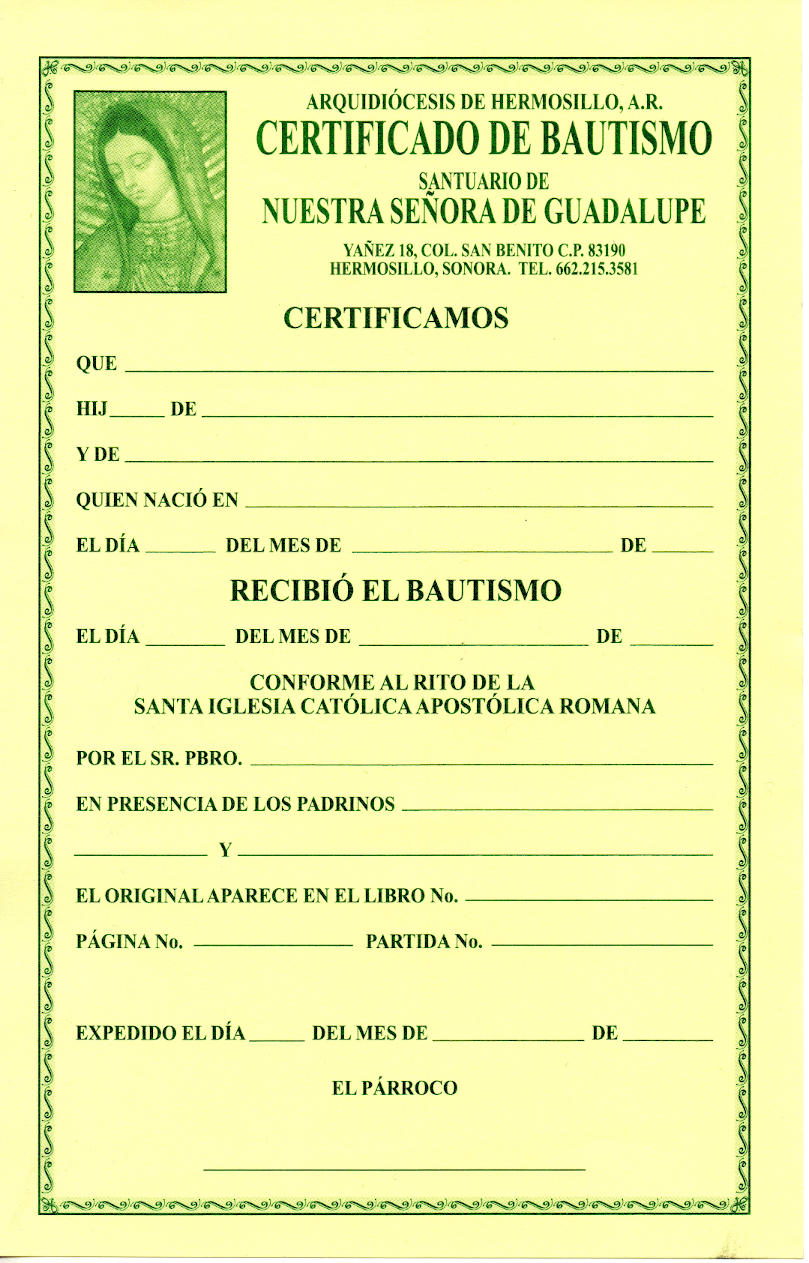
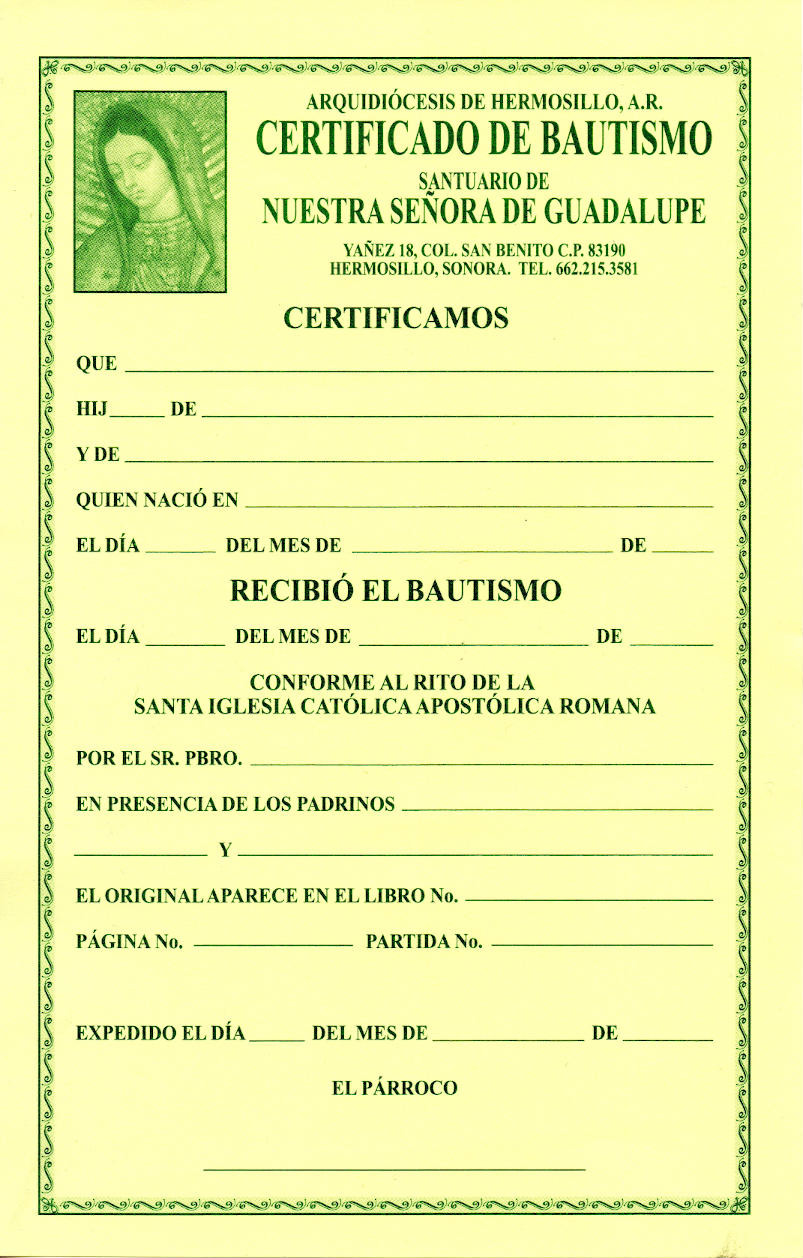
Impresion - Adjusted margin test1

Changed region(s): [[0.0, 0.0, 1.0, 1.0], [0.0934, 0.806, 0.8717, 0.868], [0.1868, 0.434, 0.2491, 0.465]]

diff --git a/WEB/Impresion/index.js b/WEB/Impresion/index.js
@@ -16,13 +16,15 @@ document.addEventListener("DOMContentLoaded", () => {
     width = "";
     height = "";
     orientation = "";
+    margins = "";
     inputs = [new INPUT(0, 0, 1, "", "")];
 
-    constructor(n, w, h, o, i) {
+    constructor(n, w, h, o, m, i) {
       this.name = n;
       this.width = w;
       this.height = h;
       this.orientation = o;
+      this.margins = m;
       this.inputs = i;
     }
   }
@@ -35,8 +37,18 @@ document.addEventListener("DOMContentLoaded", () => {
     value = "";
     textAlign = "";
     fontWeight = "";
+    fontSize = "";
 
-    constructor(ttop, lleft, wwidth, pplaceholder, vvalue, aalign, ffont) {
+    constructor(
+      ttop,
+      lleft,
+      wwidth,
+      pplaceholder,
+      vvalue,
+      aalign,
+      ffont,
+      ssize = "13px"
+    ) {
       this.top = ttop;
       this.left = lleft;
       this.width = wwidth;
@@ -44,109 +56,140 @@ document.addEventListener("DOMContentLoaded", () => {
       this.value = vvalue;
       this.textAlign = aalign;
       this.fontWeight = ffont;
+      this.fontSize = ssize;
     }
   }
 
   const docs = [
-    new DOC("bautizo.jpg", "137.0mm", "214.0mm", "portrait", [
-      new INPUT("59.25mm", "22mm", "99mm", "Nombre del bebé...", "", "", "700"),
-      new INPUT("67mm", "18.5mm", "9.5mm", "O/A", "", "", ""),
-      new INPUT("67mm", "35mm", "86mm", "", "", "", ""),
-      new INPUT("74.75mm", "22mm", "99mm", "", "", "", ""),
-      new INPUT("82.25mm", "42.25mm", "79mm", "Ciudad...", "", "", ""),
-      new INPUT("90mm", "24.5mm", "12.5mm", "", "", "center", ""),
-      new INPUT("90mm", "59.5mm", "44.5mm", "", "", "", ""),
-      new INPUT("90mm", "110.25mm", "11mm", "", "", "center", ""),
-      new INPUT("105.75mm", "24.5mm", "14mm", "", "", "center", ""),
-      new INPUT("105.75mm", "60.75mm", "39mm", "", "", "", ""),
-      new INPUT("105.75mm", "106.5mm", "14.5mm", "", "", "center", ""),
-      new INPUT("126mm", "43.25mm", "78mm", "", "", "", ""),
-      new INPUT("133.5mm", "68.75mm", "52.5mm", "", "", "", ""),
-      new INPUT("141.25mm", "12.25mm", "23mm", "", "", "", ""),
-      new INPUT("141.25mm", "41.25mm", "80mm", "", "", "", ""),
-      new INPUT("149mm", "78.5mm", "43mm", "", "", "", ""),
-      new INPUT("156.5mm", "32.5mm", "27.5mm", "", "", "", ""),
-      new INPUT("156.5mm", "83mm", "38mm", "", "", "", ""),
-      new INPUT(
-        "164mm",
-        "12.5mm",
-        "109mm",
-        "Notas marginales...",
-        "",
-        "center",
-        "700"
-      ),
-      new INPUT("172.75mm", "42mm", "10mm", "", "", "center", ""),
-      new INPUT("172.75mm", "74mm", "25mm", "", "", "", ""),
-      new INPUT("172.75mm", "105mm", "16mm", "", "", "center", ""),
-      new INPUT(
-        "198.75mm",
-        "29mm",
-        "78mm",
-        "",
-        "RECTOR PBRO. Luis Armando González Torres",
-        "",
-        ""
-      ),
-    ]),
-    new DOC("comunion.jpg", "216.0mm", "141.0mm", "landscape", [
-      new INPUT("38.75mm", "53.5mm", "117mm", "", "", "", "700"),
-      new INPUT("52.75mm", "50mm", "22mm", "", "", "center", ""),
-      new INPUT("52.75mm", "78.5mm", "66mm", "", "", "", ""),
-      new INPUT("52.75mm", "149.5mm", "21mm", "", "", "center", ""),
-      new INPUT("59.75mm", "79.5mm", "118mm", "", "", "", ""),
-      new INPUT("66.75mm", "44.5mm", "154mm", "", "", "", ""),
-      new INPUT("73.75mm", "41.5mm", "157mm", "", "", "", ""),
-      new INPUT("80.75mm", "41.5mm", "157mm", "", "", "", ""),
-      new INPUT("87.75mm", "52mm", "146mm", "", "", "", ""),
-      new INPUT("94.75mm", "42.5mm", "156mm", "", "", "", ""),
-      new INPUT("101.75mm", "26mm", "172mm", "", "", "", ""),
-      new INPUT("108.75mm", "33.5mm", "28mm", "", "", "center", ""),
-      new INPUT("115.75mm", "33.5mm", "28mm", "", "", "center", ""),
-      new INPUT("122.75mm", "33.5mm", "28mm", "", "", "center", ""),
-      new INPUT(
-        "119.75mm",
-        "122.5mm",
-        "78mm",
-        "",
-        "RECTOR PBRO. LUIS ARMANDO GONZÁLEZ TORRES",
-        "",
-        ""
-      ),
-    ]),
-    new DOC("matrimonio.jpg", "229.5mm", "170.5mm", "landscape", [
-      new INPUT(
-        "49mm",
-        "35mm",
-        "162mm",
-        "Nombre de los novios...",
-        "",
-        "",
-        "700"
-      ),
-      new INPUT("76.25mm", "35mm", "10mm", "", "", "center", ""),
-      new INPUT("76.25mm", "53mm", "44mm", "", "", "", ""),
-      new INPUT("76.25mm", "112.5mm", "7mm", "", "", "center", ""),
-      new INPUT("76.25mm", "156.5mm", "53mm", "", "", "", ""),
-      new INPUT("96mm", "29.5mm", "83.5mm", "", "", "", ""),
-      new INPUT("96mm", "121.5mm", "83.5mm", "", "", "", ""),
-      new INPUT("108mm", "29.5mm", "83.5mm", "", "", "", ""),
-      new INPUT("108mm", "121.5mm", "83.5mm", "", "", "", ""),
-      new INPUT("115mm", "49mm", "48mm", "", "", "", ""),
-      new INPUT("119.75mm", "52mm", "45mm", "", "", "", ""),
-      new INPUT("124.75mm", "52mm", "45mm", "", "", "", ""),
-      new INPUT("129.75mm", "76mm", "21mm", "", "", "", ""),
-      new INPUT("134.75mm", "30mm", "67mm", "", "", "", ""),
-      new INPUT(
-        "123.25mm",
-        "121mm",
-        "83mm",
-        "",
-        "PBRO. LUIS ARMANDO GONZÁLEZ TORRES",
-        "",
-        ""
-      ),
-    ]),
+    new DOC(
+      "bautizo.jpg",
+      "135.97mm",
+      "213.02mm",
+      "portrait",
+      "3mm 0mm 0mm 0mm",
+      [
+        new INPUT(
+          "59.25mm",
+          "22mm",
+          "99mm",
+          "Nombre del bebé...",
+          "",
+          "",
+          "700"
+        ),
+        new INPUT("67mm", "18.5mm", "9.5mm", "O/A", "", "", ""),
+        new INPUT("67mm", "35mm", "86mm", "", "", "", ""),
+        new INPUT("74.75mm", "22mm", "99mm", "", "", "", ""),
+        new INPUT("82.25mm", "42.25mm", "79mm", "Ciudad...", "", "", ""),
+        new INPUT("90mm", "24.5mm", "12.5mm", "", "", "center", ""),
+        new INPUT("90mm", "59.5mm", "44.5mm", "", "", "", ""),
+        new INPUT("90mm", "110.25mm", "11mm", "", "", "center", ""),
+        new INPUT("105.75mm", "24.5mm", "14mm", "", "", "center", ""),
+        new INPUT("105.75mm", "60.75mm", "39mm", "", "", "", ""),
+        new INPUT("105.75mm", "106.5mm", "14.5mm", "", "", "center", ""),
+        new INPUT("126mm", "43.25mm", "78mm", "", "", "", ""),
+        new INPUT("133.5mm", "68.75mm", "52.5mm", "", "", "", ""),
+        new INPUT("141.25mm", "12.25mm", "23mm", "", "", "", ""),
+        new INPUT("141.25mm", "41.25mm", "80mm", "", "", "", ""),
+        new INPUT("149mm", "78.5mm", "43mm", "", "", "", ""),
+        new INPUT("156.5mm", "32.5mm", "27.5mm", "", "", "", ""),
+        new INPUT("156.5mm", "83mm", "38mm", "", "", "", ""),
+        new INPUT(
+          "164mm",
+          "12.5mm",
+          "109mm",
+          "Notas marginales...",
+          "",
+          "center",
+          "700"
+        ),
+        new INPUT("172.75mm", "42mm", "10mm", "", "", "center", ""),
+        new INPUT("172.75mm", "74mm", "25mm", "", "", "", ""),
+        new INPUT("172.75mm", "105mm", "16mm", "", "", "center", ""),
+        new INPUT(
+          "198.75mm",
+          "29mm",
+          "78mm",
+          "RECTOR PBRO. Luis Armando González Torres",
+          "RECTOR PBRO. Luis Armando González Torres",
+          "center",
+          ""
+        ),
+      ]
+    ),
+    new DOC(
+      "comunion.jpg",
+      "215.22mm",
+      "138.85mm",
+      "landscape",
+      "3mm 0mm 0mm 0mm",
+      [
+        new INPUT("36.75mm", "53.5mm", "117mm", "", "", "", "700"),
+        new INPUT("50.75mm", "50mm", "22mm", "", "", "center", ""),
+        new INPUT("50.75mm", "78.5mm", "66mm", "", "", "", ""),
+        new INPUT("50.75mm", "149.5mm", "21mm", "", "", "center", ""),
+        new INPUT("57.75mm", "79.5mm", "118mm", "", "", "", ""),
+        new INPUT("64.75mm", "44.5mm", "154mm", "", "", "", ""),
+        new INPUT("71.75mm", "41.5mm", "157mm", "", "", "", ""),
+        new INPUT("78.75mm", "41.5mm", "157mm", "", "", "", ""),
+        new INPUT("85.75mm", "52mm", "146mm", "", "", "", ""),
+        new INPUT("92.75mm", "42.5mm", "156mm", "", "", "", ""),
+        new INPUT("99.75mm", "26mm", "172mm", "", "", "", ""),
+        new INPUT("106.75mm", "33.5mm", "28mm", "", "", "center", ""),
+        new INPUT("113.75mm", "33.5mm", "28mm", "", "", "center", ""),
+        new INPUT("120.75mm", "33.5mm", "28mm", "", "", "center", ""),
+        new INPUT(
+          "117.75mm",
+          "122.5mm",
+          "78mm",
+          "RECTOR PBRO. LUIS ARMANDO GONZÁLEZ TORRES",
+          "RECTOR PBRO. LUIS ARMANDO GONZÁLEZ TORRES",
+          "",
+          ""
+        ),
+      ]
+    ),
+    new DOC(
+      "matrimonio.jpg",
+      "227.92mm",
+      "167.64mm",
+      "landscape",
+      "3mm 0mm 0mm 0mm",
+      [
+        new INPUT(
+          "48.5mm",
+          "34mm",
+          "162mm",
+          "Nombre de los novios...",
+          "",
+          "center",
+          "700",
+          "16px"
+        ),
+        new INPUT("76.25mm", "34mm", "10mm", "", "", "center", ""),
+        new INPUT("76.25mm", "52mm", "44mm", "", "", "", ""),
+        new INPUT("76.25mm", "111.5mm", "7mm", "", "", "", ""),
+        new INPUT("76.25mm", "155.5mm", "53mm", "", "", "", ""),
+        new INPUT("96mm", "28.5mm", "83.5mm", "", "", "", ""),
+        new INPUT("96mm", "120.5mm", "83.5mm", "", "", "", ""),
+        new INPUT("108mm", "28.5mm", "83.5mm", "", "", "", ""),
+        new INPUT("108mm", "120.5mm", "83.5mm", "", "", "", ""),
+        new INPUT("115mm", "51mm", "45mm", "", "", "", ""),
+        new INPUT("119.75mm", "51mm", "45mm", "", "", "", ""),
+        new INPUT("124.75mm", "51mm", "45mm", "", "", "", ""),
+        new INPUT("129.75mm", "75mm", "21mm", "", "", "", ""),
+        new INPUT("134.75mm", "29mm", "67mm", "", "", "", ""),
+        new INPUT(
+          "133.25mm",
+          "120mm",
+          "83mm",
+          "PBRO. LUIS ARMANDO GONZÁLEZ TORRES",
+          "PBRO. LUIS ARMANDO GONZÁLEZ TORRES",
+          "center",
+          ""
+        ),
+      ]
+    ),
   ];
 
   // ################################################################ SETUP
@@ -181,6 +224,7 @@ document.addEventListener("DOMContentLoaded", () => {
       io.value = input.value;
       io.style.textAlign = input.textAlign;
       io.style.fontWeight = input.fontWeight;
+      io.style.fontSize = input.fontSize;
 
       io.onchange = () => {
         input.value = io.value;
@@ -197,10 +241,10 @@ document.addEventListener("DOMContentLoaded", () => {
     const doc = docs[select.selectedIndex];
     if (doc.orientation === "landscape") {
       document.body.classList.add("landscape");
-      stylesheet.innerHTML = `@media print {body.landscape {width: ${doc.height}; height: ${doc.width};}}`;
+      stylesheet.innerHTML = `@media print {body.landscape {width: ${doc.height}; height: ${doc.width};}} @page{ margin: ${doc.margins}; }`;
     } else {
       document.body.classList.remove("landscape");
-      stylesheet.innerHTML = `@media print {body.landscape {width: ${doc.width}; height: ${doc.height};}}`;
+      stylesheet.innerHTML = `@media print {body.landscape {width: ${doc.width}; height: ${doc.height};}} @page{ margin: ${doc.margins}; }`;
     }
 
     window.print();
@@ -209,8 +253,10 @@ document.addEventListener("DOMContentLoaded", () => {
   // ################################################################ CLEAR CLICK
   clear.onclick = () => {
     for (const input of form.children) {
-      input.value = "";
-      input.onchange();
+      if (input.value !== input.placeholder) {
+        input.value = "";
+        input.onchange();
+      }
     }
   };
 });

diff --git a/WEB/Impresion/style.css b/WEB/Impresion/style.css
@@ -130,7 +130,7 @@ button:active {
 }
 
 @page {
-  margin: 0mm 0mm;
+  margin: 3mm 1mm 0mm 0mm;
 }
 
 /* ############################################# PRINT ############################################# */
